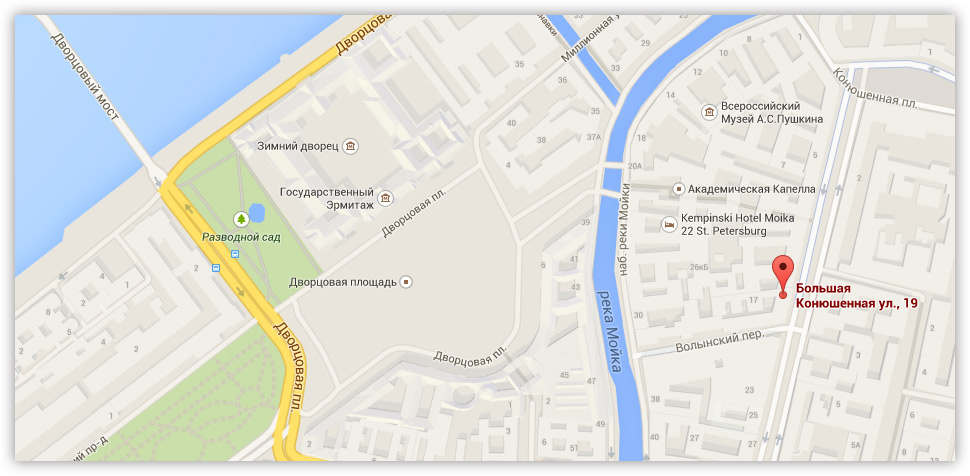
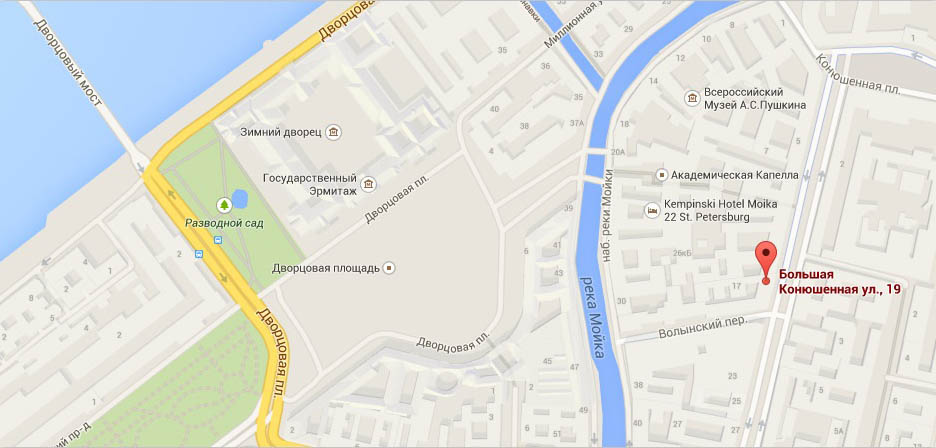
модалки

diff --git a/_css/style.css b/_css/style.css
@@ -2258,12 +2258,13 @@ h1, h2, h3, h4, h5, h6 {
   margin-right: auto;
   position: fixed;
   bottom: 210px;
-  left: 640px;
   background-color: white;
   padding-top: 47px;
   box-shadow: 0 2px 40px rgba(0,0,0,0.6);
-  display: none;
+  display: non;
   padding-top: 41px;
+  right: 0px;
+  left: 0px;
 }
 
 .pop-up-text:before {
@@ -2285,6 +2286,7 @@ h1, h2, h3, h4, h5, h6 {
   right: 5px;
   background-color: rgba(0, 0, 0, 0.0);
   border: 0px;
+  cursor: pointer;
 }
 
 .close:before, .close:after {
@@ -2390,11 +2392,15 @@ h1, h2, h3, h4, h5, h6 {
   padding-bottom: 10px;
 } 
 
+.big-map-img {
+ box-shadow: 0 1px 40px rgba(0,0,0,0.6); 
+}
 
 .big-map {
   position: fixed;
-  bottom: 330px;
-  left: 470px;
+  top: 357px;
+  margin-left: auto;
+  margin-right: auto;
   display: none;
 }
 
@@ -2417,6 +2423,7 @@ h1, h2, h3, h4, h5, h6 {
   height: 3px;
   background-color: #ee3643;
   border-radius: 1px;
+  cursor: pointer;
 }
 
 .close-map:before {

diff --git a/index.html b/index.html
@@ -295,11 +295,11 @@
         </div>
       </div>
     </footer>
+    <div class="container">
       <div class="big-map">
-        <img class="big-map-img" alt="Карта" width="960" height="446" src="_img/mappopup.jpg">
+        <img class="big-map-img" alt="Карта" width="940" height="440" src="_img/mappopup.jpg">
         <button class="close-map"></button>
       </div>
-    <div class="container">
       <div class="pop-up-text"> 
         <div class="pop-up-text-top"> 
           <button class="close"></button> 

diff --git a/catalog-drill/index.html b/catalog-drill/index.html
@@ -75,7 +75,7 @@
             </div>
           </div>
         </div>
-        <form class="filter" action="">
+        <form class="filter" action="#">
           <div class="filter-h">Фильтр:</div>
           <div class="filret-price">Цена:</div>
           <div class="price-slider">
